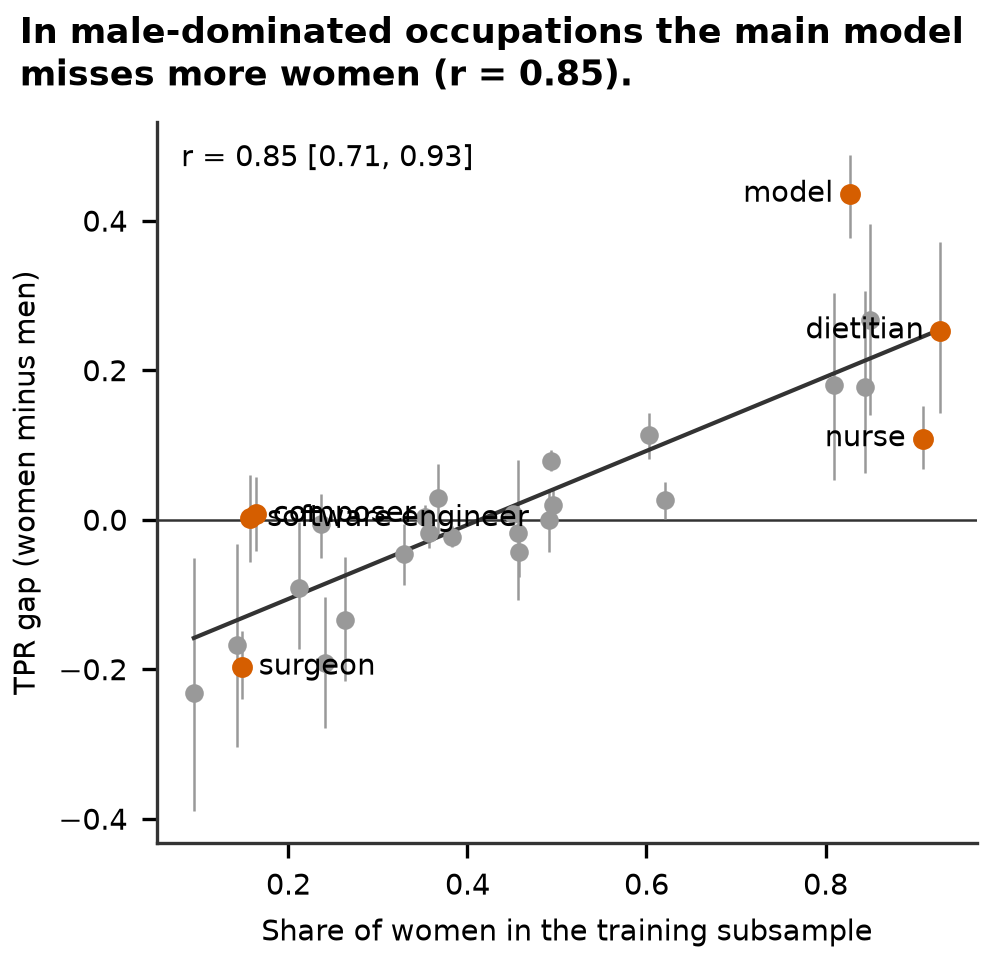
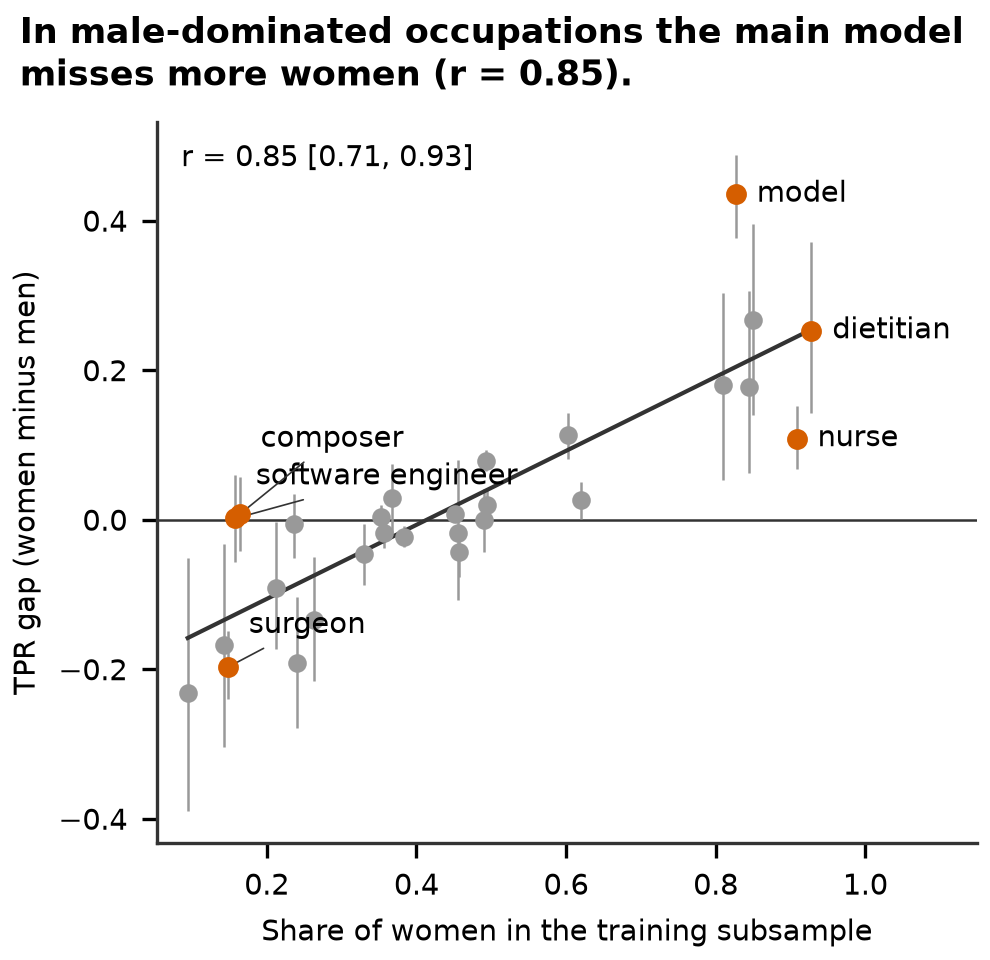
feat: F1 labels stacked to the right of their dots with leader lines

diff --git a/scripts/figure_f1.py b/scripts/figure_f1.py
@@ -10,10 +10,44 @@ from hiring_bias_xai.config import RESULTS_DIR
 
 HEIGHT_INCHES = 3.2
 DARK = "#333333"
+LABEL_DX_PT = 5
+LABEL_GAP_PT = 9
+MALE_RAISE_PT = 10
 
 
 def _read(results_dir: Path, name: str):
     return json.loads((results_dir / name).read_text())
+
+
+def _label(fig, ax, points: dict, sides: dict) -> None:
+    """Label the showcase occupations to the right of their dots, with no two labels overlapping.
+
+    Male-dominated labels start above their dots, clear of the zero line and the grey dots near
+    it. Within a side, labels are pushed up until they are `LABEL_GAP_PT` apart; a label that is
+    not level with its dot gets a leader line.
+    """
+    fig.canvas.draw()  # fixes the axes position so data units can be converted to points
+    points_per_pixel = 72 / fig.dpi
+    placed = {}
+    for side in ("male_dominated", "female_dominated"):
+        names = sorted((n for n in sides if sides[n] == side), key=lambda n: points[n][1])
+        label_y = -np.inf
+        for name in names:
+            dot_y = ax.transData.transform(points[name])[1] * points_per_pixel
+            label_y = max(dot_y + (MALE_RAISE_PT if side == "male_dominated" else 0), label_y + LABEL_GAP_PT)
+            placed[name] = label_y - dot_y
+    for name, raise_pt in placed.items():
+        ax.annotate(
+            name.replace("_", " "),
+            points[name],
+            xytext=(LABEL_DX_PT, raise_pt),
+            textcoords="offset points",
+            ha="left",
+            va="center",
+            arrowprops={"arrowstyle": "-", "lw": 0.4, "color": DARK, "shrinkA": 0, "shrinkB": 2}
+            if raise_pt
+            else None,
+        )
 
 
 def build(results_dir: Path):
@@ -36,17 +70,6 @@ def build(results_dir: Path):
     is_showcase = np.array([name in labelled for name in names])
     ax.scatter(x[~is_showcase], gap[~is_showcase], s=12, color=plotting.NEUTRAL, zorder=3)
     ax.scatter(x[is_showcase], gap[is_showcase], s=16, color=plotting.HIGHLIGHT, zorder=4)
-    for name, xi, yi in zip(names, x, gap, strict=True):
-        if name in labelled:
-            right = labelled[name] == "male_dominated"
-            ax.annotate(
-                name.replace("_", " "),
-                (xi, yi),
-                xytext=(4 if right else -4, 0),
-                textcoords="offset points",
-                ha="left" if right else "right",
-                va="center",
-            )
     ax.axhline(0, color=DARK, lw=0.6, zorder=1)
     slope, intercept = np.polyfit(x, gap, 1)
     ax.plot([x.min(), x.max()], [intercept + slope * x.min(), intercept + slope * x.max()], color=DARK, lw=1)
@@ -67,6 +90,9 @@ def build(results_dir: Path):
     )
     ax.set_xlabel("Share of women in the training subsample")
     ax.set_ylabel("TPR gap (women minus men)")
+    ax.set_xlim(right=1.15)  # room for the labels of the female-dominated showcase occupations
+    ax.set_xticks([0.2, 0.4, 0.6, 0.8, 1.0])
+    _label(fig, ax, {name: (xi, yi) for name, xi, yi in zip(names, x, gap, strict=True)}, labelled)
     return fig
 
 

diff --git a/tests/test_figure_f1.py b/tests/test_figure_f1.py
@@ -153,7 +153,7 @@ def test_labels_of_showcase_dots_that_nearly_coincide_do_not_overlap(results):
         fig.canvas.draw()
         renderer = fig.canvas.get_renderer()
         boxes = [
-            t.get_window_extent(renderer)
+            matplotlib.text.Text.get_window_extent(t, renderer)  # the text, not its leader line
             for t in fig.axes[0].texts
             if t.get_text() in ("o1", "o2")
         ]
